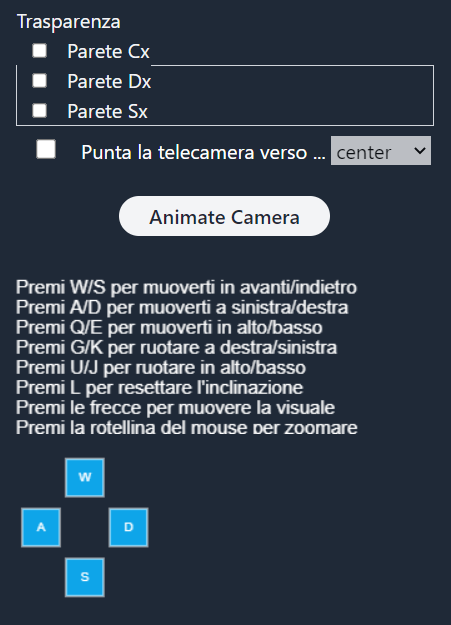
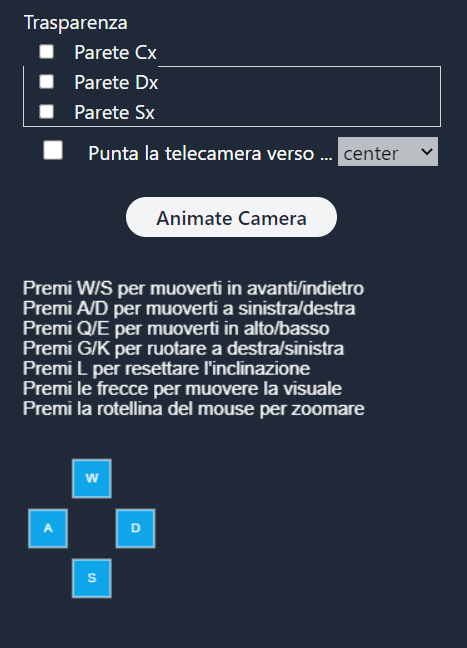
bug fixed

Changed region(s): [[0.031, 0.4256, 0.8071, 0.9728], [0.031, 0.0, 0.9623, 0.2736], [0.2483, 0.304, 0.745, 0.3952]]

diff --git a/doc/document.html b/doc/document.html
@@ -22,6 +22,8 @@
             hyphens: auto;
             text-rendering: optimizeLegibility;
             font-kerning: normal;
+            font-size: 18px;
+            font-family: 'Lucida Sans', 'Lucida Sans Regular', 'Lucida Grande', 'Lucida Sans Unicode', Geneva, Verdana, sans-serif;
         }
         .center{
             text-align: center;
@@ -33,6 +35,8 @@
         img{
             justify-content: center;
             display: flex;
+            margin-top: 1cm;
+            margin-bottom: 1cm;
         }
         h2,h3,h4{
             font-size: 30px;
@@ -45,7 +49,7 @@
         <h5 class="center">Simone Boldrini</h5>
         <h2 class="center">Introduzione</h2>
         <p>Il progetto consiste nella realizzazione di 3D Webapp usando WebGL (HTML5, CSS e contesto webgl), linguaggio JavaScript e OpenGL ES SL con browser Chrome</p>
-        <center><img src="interface.png" width="60%"/></center>
+        <center><img src="interface.png" width="70%"/></center>
         <h2 class="center">Sorgenti</h2>
         <div class="centerDot">
             <ul>
@@ -61,8 +65,7 @@
             </ul>
         </div>
         <h3 id="Main">Main</h3>
-
-        Main.js é lo script iniziale che viene richiamato dal frammento html, all'interno di esso troviamo la lista di mesh che devono essere caricati con i vari attributi( vedi <a href="#Scene">Scene.js</a>).
+        Main.js é lo script iniziale che viene richiamato dal frammento html, all'interno carichiamo il json che contiene gli elementi della scena( vedi <a href="#Scene">Scene.js</a>).
         Inoltre viene istanziato l'oggetto Core che é il motore principale del programma, esso si occupa di caricare le mesh, inizializzare la scena, la camera e i vari controlli.
         Infine inizializziamo il programma di render e avviamo lo stesso
         <h3 id="utils">Utils</h3>
@@ -76,7 +79,7 @@
             <li><b>initScene</b> Prendendo un Oggetto che contiene una lista di mesh inizia ad aggiungere gli elementi al meshLoader che si occuperá a sua volta di chiamare la funzione LoadMesh</li>
             <li><b>initCamera</b> Inizializza la camera, controllando che sia uno schermo per PC o per smartphone e settando i vari controlli nel caso</li>
             <li><b>initRender</b> Inizializza il programma di render</li>
-            <li><b>render</b> Avvia il programma di render, renderizzando gli elementi</li>
+            <li><b>render</b> Avvia la routine di render, renderizzando gli elementi</li>
         </ul>
         <h3 id="camera">Camera</h3>
         In questa sezione osserviamo le 3 possibili camere che vengono utilizzate per la visualizzazione del mondo 3D.
@@ -88,7 +91,7 @@
         </ul>
         La prima fa uso dei parametri <b>Position,forward,right,up</b> e tiene come parametro di default una <b>fieldOfView</b>
         Mentre le altre due camera si muovono attraverso gli assi delle coordinate polari <b>Theta,Phi</b> andando a modificare questi parametri.
-        La Camera Smartphone è una camera che si muove in base ai movimenti touch dell'utente, mentre la Animate Camera si muove attraverso il metodo <b>#move</b> e gira all'infinito avendo sempre come lookAt il centro della scena (0,0,0)
+        La Animate Camera si muove attraverso il metodo <b>#move</b> e gira all'infinito avendo sempre come lookAt il centro della scena (0,0,0) mentre la Camera Smartphone è una camera che si muove in base ai movimenti touch dell'utente. 
        <center>
        <table cellspacing="0" cellpadding="0"><tr><td>
             <img id="smartphone" src="smartphone.png" width="250px"height="400px"/>
@@ -129,7 +132,7 @@
             <li><i>Rotate</i></li>
         </ul>
         e contiene i metodi:
-        <ul>
+        <ul>    
             <li><b>computer_position</b> Permette di calcolare la nuova posizione avendo calcolato l'offset(si usa nel caso della rotazione)</li>
             <li><b>compute_idleAnimation</b> Permette di calcolare la rotazione al punto 0,0,0 e la traslazione sull' offset</li>
             <li><b>compute_player</b> Trasla l'oggetto</li>
@@ -147,7 +150,7 @@
         <h3 id="skybox">Skybox</h3>
         Attorno alla nostra scena, troviamo uno sfondo che ci permette di vedere dei grattacieli e allo stesso tempo un pavimento, questo sfondo é una Skybox, ovvero una mesh che viene applicata come sfondo della scena.
         <center><img src="skybox_city.png" width="50%" /></center>
-        Sono caricate 6 immagini<i>(prepareSkyBox())</i> come texture e costruite in modo da formare una CubeMap, ed infine una volta renderizzati tutti gli elementi della scena dovremmo impostare il nostro sfondo 
+        Sono caricate 6 immagini<i>(prepareSkyBox())</i> come texture e costruite in modo da formare una CubeMap, ed infine una volta renderizzati tutti gli elementi della scena dovremmo potere vedere il nostro sfondo 
         <h3 id="reference">Referenze</h3>
         Oltre al codice visto a lezione sono state utilizzate le seguenti fonti:
         <ul>

diff --git a/project/lib/tools/CameraSmartphone.js b/project/lib/tools/CameraSmartphone.js
@@ -1,4 +1,4 @@
-import { degToRad } from "../utils.js";
+import { degToRad,radToDeg } from "../utils.js";
 let updateCamera = true;
 
 let drag;
@@ -27,8 +27,8 @@ export class CameraSmartphone {
 
 	moveCamera() {
 		this.position[0] = Math.cos(THETA) * this.radiusModify(radius);
-		this.position[1] = Math.sin(THETA) * this.radiusModify(radius);
-		this.position[2] = Math.sin(PHI) * radius;
+		this.position[2] = Math.sin(THETA) * this.radiusModify(radius);
+		this.position[1] = Math.sin(PHI) * radius;
 		updateCamera = false;
 	}
 
@@ -78,6 +78,7 @@ export function setCameraControlSmartphone(canvas) {
 			PHI -= dY;
 			if (PHI > degToRad(85)) PHI = degToRad(85);
 			if (PHI < degToRad(0)) PHI = degToRad(0);
+			
 			old_x = touches[i].pageX;
 			old_y = touches[i].pageY;
 			touch.preventDefault();	

diff --git a/project/index.html b/project/index.html
@@ -11,9 +11,9 @@
 </head>
 
 <body class="bg-gradient-to-r from-sky-500 to-indigo-500 " >
-	<div class="lg flex justify-center items-center columns-1 flex-col min-[400px]:flex-row ">
+	<div class="lg flex justify-center items-center columns-1 flex-col min-[500px]:flex-row ">
 				<div class="my-1 column-1">
-					<canvas class="rounded-md w-[1028px] max-sm:w-[320px] h-[680px] max-sm:h-[400px]" id="canvas">
+					<canvas class="rounded-md w-[1028px] max-sm:w-[320px] h-[680px] max-sm:h-[450px]" id="canvas">
 					</canvas>
 				</div>
 		

diff --git a/project/lib/main.js b/project/lib/main.js
@@ -1,7 +1,7 @@
 
 import { Scene } from "./tools/Scene.js";
 import { Core, initProgramRender, render } from "./tools/Core.js";
-import { loadJson } from "./utils.js";
+import { loadJson,isSmartphone } from "./utils.js";
 let sceneComposition = new Scene();
 
 //Load Element to compose the scene from scene.json
@@ -13,6 +13,7 @@ sceneComposition.addList(listElem);
 let core = new Core();
 core.initScene(sceneComposition);
 core.initCamera();
+
 core.prepareSkybox().then(() => {});
 
 //Rendering

diff --git a/project/lib/tools/Camera.js b/project/lib/tools/Camera.js
@@ -142,23 +142,15 @@ export function setCameraControls(canvas,camera,look) {
 				break;
 			}
 			case "e": {
-					camera.pedestal(-step);
-					break;
-				}
+				camera.pedestal(-step);
+				break;
+			}
 			case "g": {
 				camera.cant(-step);
 				break;
 			}
 			case "k": {
 				camera.cant(step);
-				break;
-			}
-			case "u":  {
-				camera.pedestal(step);
-				break;
-			}
-			case "j": {
-				camera.pedestal(-step);
 				break;
 			}
 			case "ArrowUp": {

diff --git a/project/lib/utils.js b/project/lib/utils.js
@@ -18,7 +18,6 @@ function makeText(context,canvas){
 	"Premi A/D per muoverti a sinistra/destra",
 	"Premi Q/E per muoverti in alto/basso",
 	"Premi G/K per ruotare a destra/sinistra",	
-	"Premi U/J per ruotare in alto/basso",
 	"Premi L per resettare l'inclinazione",
 	"Premi le frecce per muovere la visuale",
 	"Premi la rotellina del mouse per zoomare",

diff --git a/project/lib/tools/Core.js b/project/lib/tools/Core.js
@@ -191,8 +191,8 @@ export function initProgramRender() {
 export function render(time = 0) {
 	time *= 0.002;
 	
-	//gl.enable(gl.CULL_FACE);
-   	//
+	gl.enable(gl.CULL_FACE);
+   	
    	gl.enable(gl.BLEND);
    	gl.blendFunc(gl.SRC_ALPHA, gl.ONE_MINUS_SRC_ALPHA);
 
